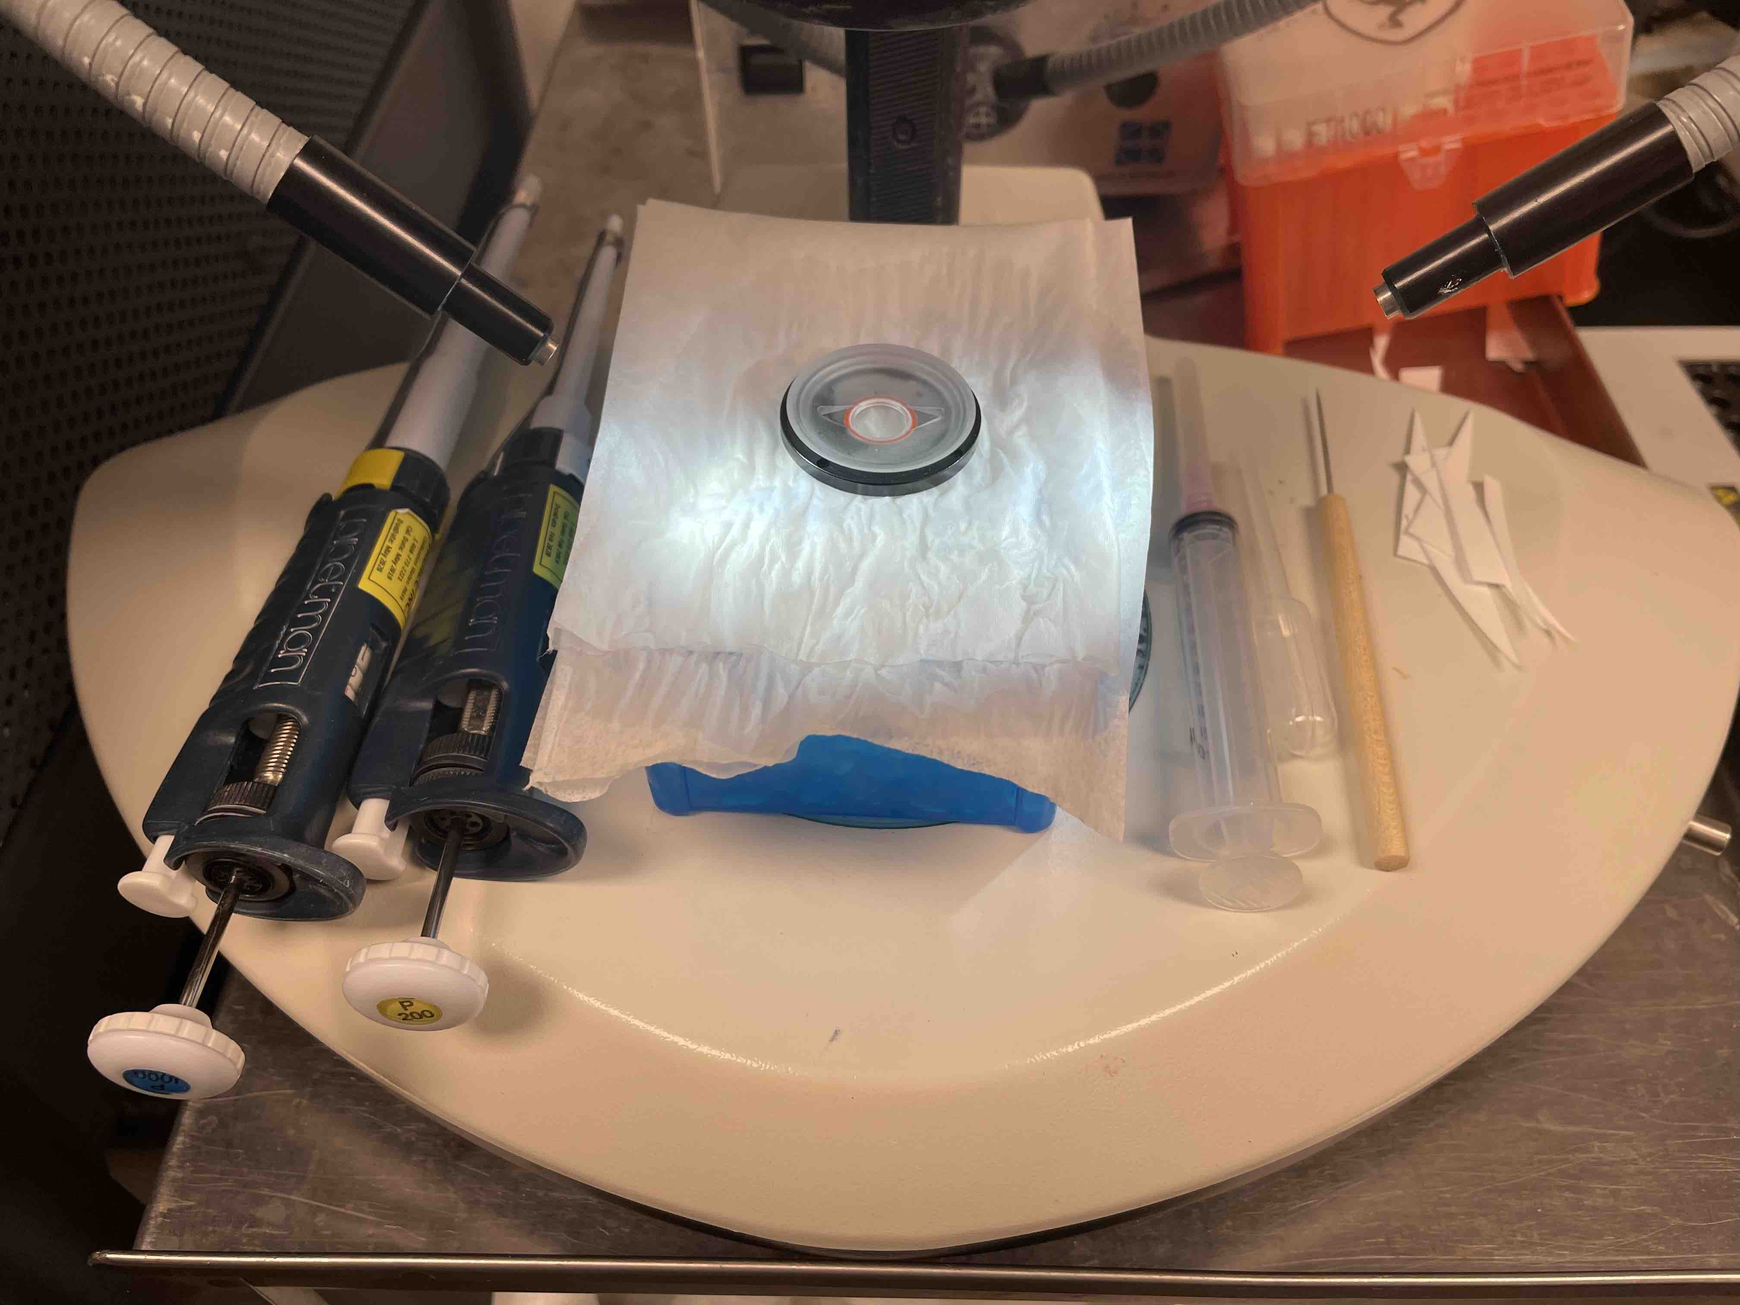
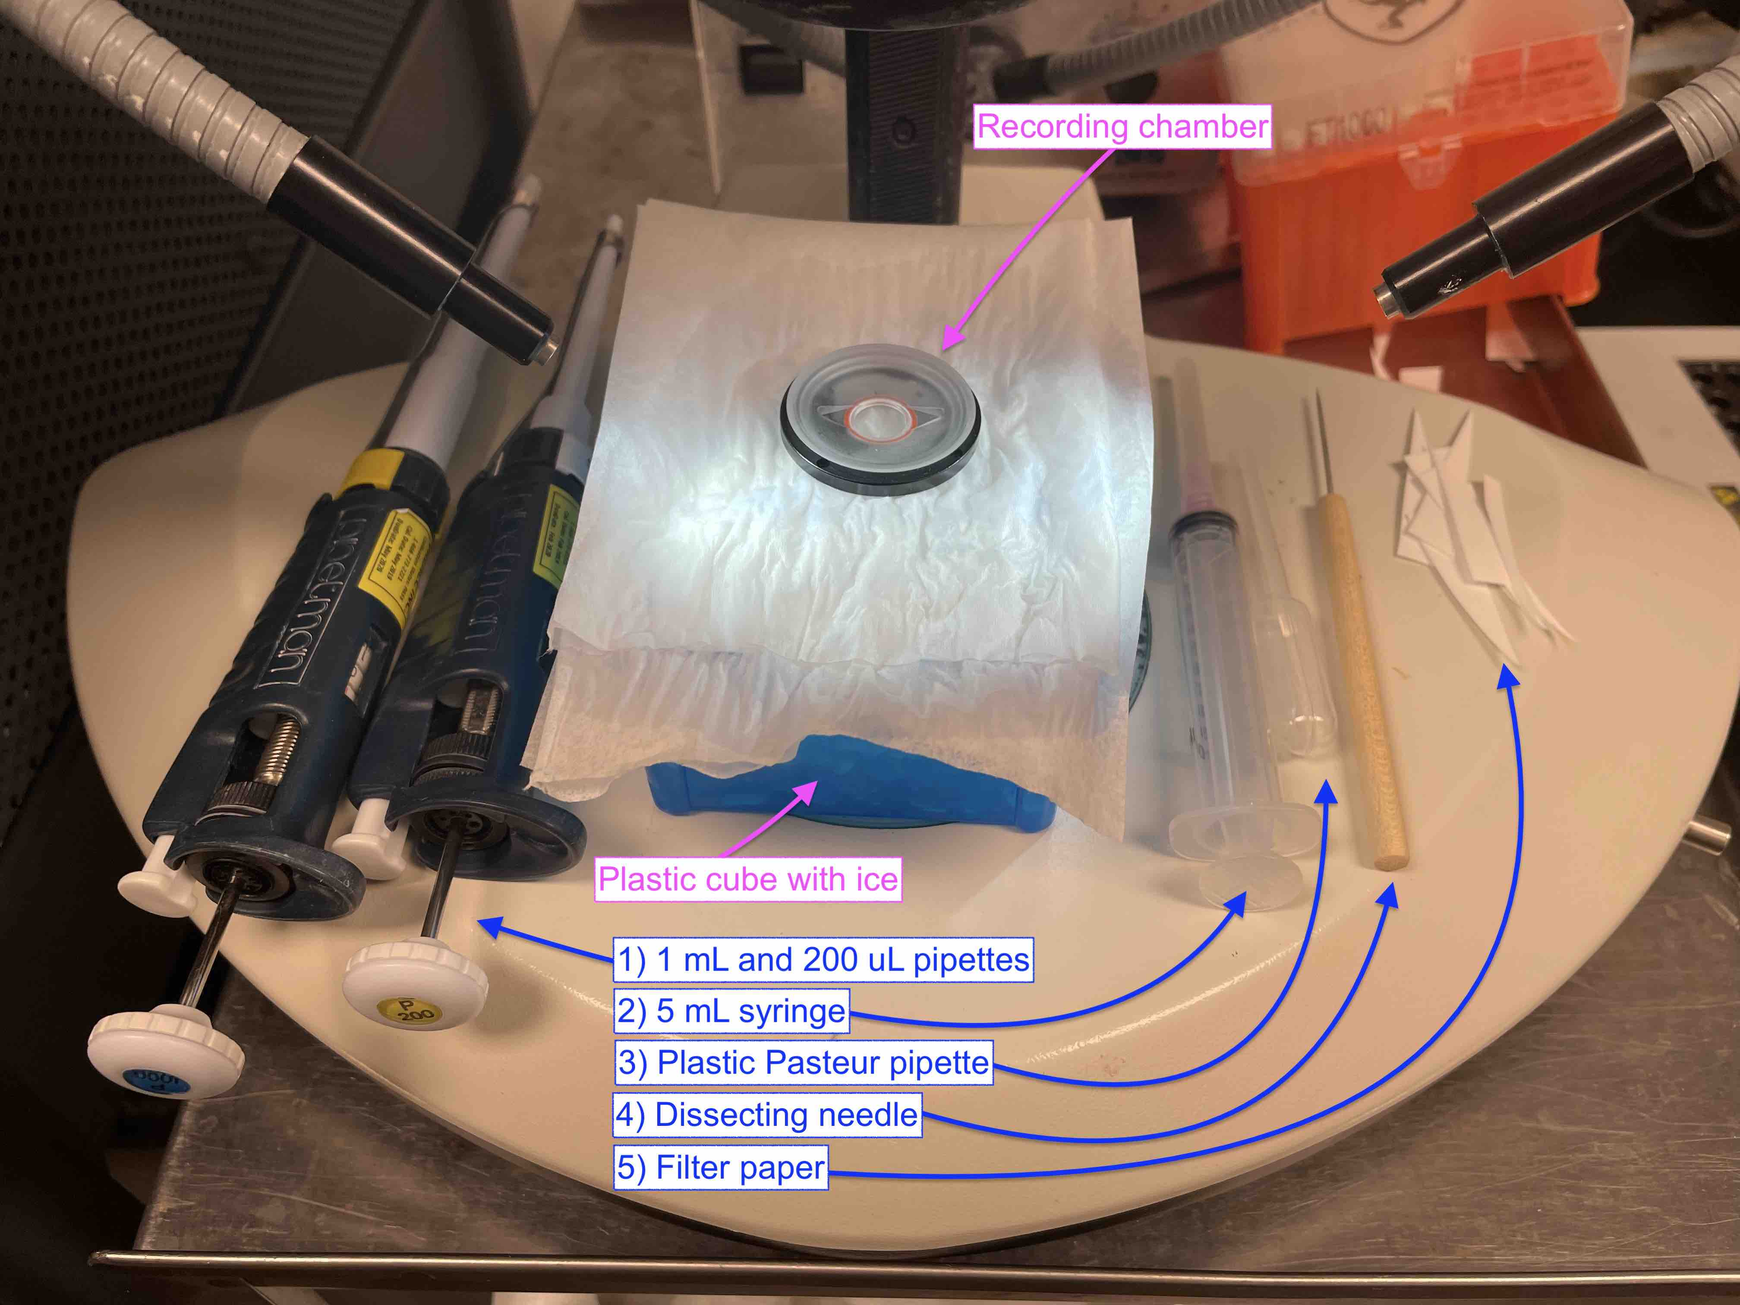
update sample preparation

diff --git a/organostation/tutorials/templates/day4/index.html b/organostation/tutorials/templates/day4/index.html
@@ -1,9 +1,8 @@
 <h1><strong>Sample preparation</strong></h1>
 
 <p>This guide is the most important part of the tutorials, and it will guide you through the preparation of the organoid
-	and the recording procedure. Neural tissue has special properties that make it very sensitive to changes in
+	for the recording procedure. Neural tissue has special properties that make it sensitive to changes in
 	mechano-chemical conditions. Thus, special care is required when handling the preparation.</p>
-
 
 <section id="toc">
 	<hr />
@@ -41,51 +40,40 @@
 	<h1>1. Tissue immobilization</h1>
 
 	<p>One of the most important elements in an electrical recording is mechanical stability. We will use 4% (wt/vol)
-		low-melt agarose (Biozym, Cat. No. 850080) in phosphate-buffered solution (PBS) to immobilize the organoid
-		within
-		the recording chamber. Also, artificial cerebrospinal fluid (ACSF) will be delivered at a rate of 2-3 mL/min
-		while
-		keeping both solution and chamber near physiological temperature&nbsp;(30-35 &deg;C ). When keeping mechanical
-		stability, the composition of the fluid, and the temperature of the tissue, we can guarantee recordings under
-		neurophysiological conditions.&nbsp;</p>
+		low-melt agarose (<a
+			href="https://www.biozym.com/media/pdf/58/26/76/85008X_Datenblatt-Biozym-Sieve-GeneticPure_vers-0-4.pdf"
+			target="_blank">Biozym, Cat. No. 850080</a>) in phosphate-buffered solution (PBS) to immobilize the organoid
+		within the recording chamber. Also, artificial cerebrospinal fluid (ACSF) will be delivered at a rate of 2-3
+		mL/min while keeping both solution and chamber near physiological temperature (30-35 &deg;C ). When keeping
+		mechanical stability, the composition of the fluid, and the temperature of the tissue, we can guarantee
+		recordings are performed under neurophysiological conditions.</p>
 
-	<h2>1.1 Sample preparation</h2>
+	<h2>1.1 Preparation table</h2>
 
-	<p>We recommend using the recording station close to the culture room to avoid mechanical stress on the organoids.
-		Before starting the procedure, have a bottle (~, e.g., 500 mL) of ACSF gassed with carbogen for at least 20
-		minutes
+	<p>We recommend having the recording station close to the culture room to avoid mechanical stress on the organoids.
+		Before starting the procedure, have a bottle (e.g., 500 mL) of ACSF gassed with carbogen for at least 20 minutes
 		to equilibrate the pH solution (~ 7.25-7.35) at room temperature.</p>
 
 	<p>Once taken from the incubator, cerebral organoids are to keep at near-physiological temperature (30-35 &deg;C )
-		in
-		ACSF for ten minutes (e.g., in a 35-mm petri dish). While keeping the organoids in ACSF, it is recommended to
-		melt
-		the 4% (wt/vol) low-melt agarose (Biozym, Cat. No. 850080) in phosphate-buffered solution (PBS) in a thermal
-		block
-		(or in thermal cycler). At the same time, we can fill a 10 x 10 mL plastic container with ice, and cover it with
-		a
-		paper blanket. We will operate the recording chamber on top of the blanket. In this way, the chamber is very
-		cold,
-		but not frozen. At both the left and right sides of the chamber, we will have preparation tools (like pipettes
-		of
-		different sizes, filter paper, etc. see below).</p>
+		in ACSF for ten minutes (e.g., in a 35-mm petri dish). While keeping the organoids in ACSF, it is recommended to
+		melt the 4% low-melt agarose (using a thermal block, or in a thermal cycler). At the same time, we can fill a 10
+		x 10 mL plastic container with ice, and cover it with a paper blanket. We will allocate the recording chamber on
+		top of the blanket. In this way, the chamber is very cold, but not frozen. On both sides of the chamber, we will
+		have preparation tools (like pipettes of different sizes, filter paper, etc. see below).</p>
 
-	<p>The preparation must be visible&nbsp;under a bench-top magnifier or low-power microscope, as depicted below.</p>
+	<p>The preparation table must be visible&nbsp;under a bench-top magnifier or low-power microscope, as depicted
+		below.</p>
 
-	<p>&nbsp;</p>
-
-	<table border="0" cellpadding="1" cellspacing="1" style="margin-left:auto; margin-right:auto; width:750px">
+	<table cellpadding="1" cellspacing="1">
 		<tbody>
 			<tr>
-				<td style="width:500px"><img alt="sample" src="{{ url_for('tutorials_bp.static', filename='img/sample.jpg')}}"
-						style="width:500px" /></td>
-				<td style="width:228px"><img alt="thermo" src="{{url_for('tutorials_bp.static', filename = 'img/thermo.jpg') }}"
-						style="height:188px; width:250px" /></td>
+				<td style="width:750px"><img alt="sample"
+						src="{{ url_for('tutorials_bp.static', filename='img/sample.jpg')}}" style="width:750px" /></td>
 			</tr>
 		</tbody>
 	</table>
 
-	<p>Here is a summary of the tools to have before the sample preparation:</p>
+	<p>Here is a summary of the tools to have on the preparation table:</p>
 
 	<ul>
 		<li>ACSF bubbled in Carbogen for 20 minutes at room temperature.</li>
@@ -95,10 +83,10 @@
 		<li>Preparation tools:
 			<ul>
 				<li>1) 1mL and 200 microL eppendorf pipettes</li>
-				<li>2)&nbsp;5 mL syringe</li>
+				<li>2) 5 mL syringe</li>
 				<li>3) Plastic Pasteur Pipette</li>
-				<li>4)&nbsp;Filter paper (e.g., Watmann) or Kim-wipe / absorbent swab</li>
 				<li>5) Dissecting needle</li>
+				<li>4) Filter paper (e.g., Watmann) or Kim-wipe / absorbent swab</li>
 			</ul>
 		</li>
 	</ul>
@@ -106,21 +94,16 @@
 	<h2>1.2 Embedding the organoid</h2>
 
 	<p>Now that we have the organoid on the dish, we will use the plastic Pasteur pipette (or an Eppendorf pipette tip)
-		and
-		cut it to have a ~ 5 mm diameter or larger. It allows us to get the organoid with some ACSF without touching the
-		tissue. We use it to move it to the recording chamber on the preparation table. Note that the organoid will
-		contain
-		a few microliters (maybe up to 1 mL) of ACSF in the recording chamber. We will eliminate those with a 1 mL
-		Eppendorf
-		pipette. After that, use the filter paper (or Kim-wipe / absorbent swab) carefully, to remove the excess liquid
-		around the border of the organoid. It is necessary that the border is almost dry to allow the agar to surround
-		the
-		tissue and fix it together with the chamber. After it, we will add 4% melted agarose in the surroundings of the
-		organoid, that in contact with the frozen chamber, will solidify immediately and fix the organoid to the
-		chamber.
-		This is when we add ~ 2 mL of ACSF at room temperature, to finally move the chamber to the organostation, and
-		start
-		the perfusion of warm (~ 35&nbsp;&deg;C) ACSF with the peristaltic pump.</p>
+		and cut it to obtain a ~ 5 mm diameter tip or larger. It allows us to get the organoid with some ACSF without
+		touching the tissue. We use it to move from the petri dish to the recording chamber on the preparation table.
+		Note that the organoid will contain a few microliters (maybe up to 1 mL) of ACSF in the recording chamber. We
+		will eliminate those with a 1 mL Eppendorf pipette. After that, use the filter paper (or Kim-wipe / absorbent
+		swab) carefully, to remove the excess liquid around the border of the organoid. It is essential to dry&nbsp;the
+		border to allow the agar to surround the tissue and fix it together with the chamber. After it, we will add ~200
+		microliters of 4% melted agarose in the surroundings of the organoid, that in contact with the frozen chamber,
+		will solidify immediately. This is when we add ~ 2 mL of ACSF at room temperature with the plastic Pasteur
+		pipette. Once immersed in ACSF, the organoid on the recording chamber must be transported to the organostation,
+		and start the perfusion of warm (~ 35&nbsp;&deg;C) ACSF with the peristaltic pump.</p>
 
 	<p>Here is the whole process summarized.</p>
 
@@ -128,104 +111,117 @@
 		<li>Move the organoid for the 35 mm petri dish to the recording chamber.</li>
 		<li>Remove the excess ACSF with an Eppendorf pipette, and dry out the borders of the organoid with filter paper.
 		</li>
-		<li>Add immediately 194 microliters of melted 4% agar around the borders of the organoid.</li>
-		<li>Add ACSF to cover the whole volume of the organoid (about 2 mL).</li>
+		<li>Add immediately ~ 200 uL of melted 4% agar around the borders of the organoid.</li>
+		<li>Cover with&nbsp;ACSF the whole volume of the organoid (about 2 mL).</li>
 		<li>Move the chamber carefully&nbsp;to the organostation&nbsp;and start the perfusion of warm (~ 35&nbsp;&deg;C)
 			ACSF</li>
 	</ol>
 
-	<p>The most critical step is drying out the border of the organoids. Neural tissue will immediately die if not in
-		the
-		presence of ACSF. Therefore, the organoid must be kept in ACSF as long as possible.</p>
+	<p>The most critical step is drying out the border of the organoids. Neural tissue will immediately die and suffer
+		from anoxia if not in the presence of ACSF. Therefore, the organoid must be kept in ACSF as long as possible.
+	</p>
 </section>
 
 <section id="handling">
 	<h1>2. Electrode penetration</h1>
 
-	<p>Once the chamber is in the organostation, look carefully if the organoid remains embedded in agar. If yes, it is
-		time
-		to take the probes and insert them into the adaptor for the micromanipulators. For that, you need to move the
-		manipulators at a fast speed outside of the recording chamber. Once there, inset the probes on the manipulators,
-		and
-		do not forget to allocate the reference electrode inside the bath (see figure).&nbsp;</p>
+	<p>Once the chamber is in the organostation, look carefully if the organoid remains embedded in the agar block. If
+		yes, it is time to take the probes and insert them into the adaptor for the micromanipulators. For that, you
+		need to move the manipulators at a fast speed outside of the recording chamber. Once there, inset the probes on
+		the manipulators, and do not forget to allocate the reference electrode inside the bath (see figure).</p>
 
-	<p><img alt="grounding" src="{{ url_for('tutorials_bp.static', filename = 'img/grounding.jpg') }}"
-			style="width: 350px; height: 264px;" /></p>
-
-	<p>After setting the grounding electrode, move the manipulators fast until you see it under the microscope. At the
-		same
-		time, monitor the noise of the recordings in your computer. Noise is very large if the electrodes are outside
-		ACSF.
-		Once the electrodes are on top of the organoid, select a slower speed and move downwards. At the moment you
-		touch
-		the surface of the organoid, you will see that the noise of the electrodes increases slightly. This is the
-		moment
-		when you set the counter to zero in the manipulator pad, and move the probe using the wheel. Insert now the
-		probes
-		with the electrodes around 200- 300 micrometers following the display in the manipulator pad.</p>
-
-	<h2>2.1 Documenting recordings</h2>
-
-	<p>Check that the binary file is saved and enter in your dataset all the details for your recording, for example</p>
-
-	<p><img alt="stable" src="{{ url_for('tutorials_bp.static', filename = 'img/stable.jpg') }}" style="width:750px" /></p>
-
-</section>
-
-<section id="cleaning">
-	<h1>3. Cleaning protocol</h1>
-
-	<p>Ideally,&nbsp;you would like to start and end cleaning the probe by immersing it in a 1% (w/v) <a
-			href="https://www.coleparmer.com/i/alconox-tergazyme-1304-1-enzyme-active-powered-detergent-4-lb-box/1777705"
-			rel="noopener noreferrer" target="_blank">tergazyme</a> in dH2O solution at ~50 degrees for 20 minutes.
-		After
-		that, you can remove any debris with a small brush under visual inspection (e.g., bench-top magnifier).&nbsp;
-	</p>
-
-	<ol>
-		<li>Immersion in 1% (w/v) tergazyme at ~ 50&nbsp;&deg;C for approximately 20 minutes.</li>
-		<li>Rinse abundantly with&nbsp;bi-distilled water at ~ 50&nbsp;&deg;C &nbsp;</li>
-		<li>Rinse with isopropanol at room temperature&nbsp;</li>
-	</ol>
-
-	<h2>3.1 Probe cleaning</h2>
-
-	<p>Once the acquisition is made, and the binary file is stored, you must operate carefully to remove the probes from
-		the
-		manipulator. During this time, the tissue can remain at physiological temperature and with the proper
-		recirculation
-		in the chamber. It helps if you require to perform a new recording on a different day and recover after the
-		brief
-		immersion of the probes. To remove the probes, move the manipulator to the furthest possible&nbsp;position, and
-		once
-		there, far away from the tissue, remove the PCB that contains the probe.</p>
-
-	<p>Always move the&nbsp;probe upwards, avoiding any contact. Securely mount your probe into a moveable stand to soak
-		the
-		probe shank(s) in a heated magnetic stirrer bath (cleaning station, see figure on the left). Insert the probe in
-		1%
-		(w/v) <a
-			href="https://www.coleparmer.com/i/alconox-tergazyme-1304-1-enzyme-active-powered-detergent-4-lb-box/1777705"
-			rel="noopener noreferrer" target="_blank">tergazyme</a> in dH2O solution at ~50 degrees for approximately 20
-		minutes. Alternatively,&nbsp;you can use Trypsin 10X (Cat. No, 59427C from Sigma) diluted 1:10 in distilled
-		water
-		and soak the probe shank for a few hours at 35 degrees Celsius.</p>
-
-	<p>Finally, you can store the probe within a Falcon Tube containing 30 mL of dH2O.</p>
-
-	<table border="0" cellpadding="1" cellspacing="1" style="margin-left:auto; margin-right:auto; width:750px">
+	<table cellpadding="1" cellspacing="1">
 		<tbody>
 			<tr>
-				<td style="width:500px"><img alt="probe_cleaner"
-						src="{{ url_for('tutorials_bp.static', filename='img/probe_cleaner.jpg')}}"
-						style="height:253px; width:250px" /></td>
-				<td style="width:500px"><img alt=""
-						src="{{ url_for('tutorials_bp.static', filename = 'img/cleaning_station.jpg')}}"
-						style="height:436px; width:250px" /></td>
+				<td style="width:750px"><img alt="grounding"
+						src="{{ url_for('tutorials_bp.static', filename='img/grounding.jpg')}}" style="width:750px" />
+				</td>
 			</tr>
 		</tbody>
 	</table>
 
-	<h2>3.2&nbsp;Probe storage</h2>
+	<p>After setting the grounding electrode, move the manipulators fast until you see them under the microscope. At the
+		same time, monitor the noise of the recordings on your computer. Noise is very large if the electrodes are
+		outside ACSF. Once the electrodes are on top of the organoid, select a slower speed and move downwards. The
+		moment you touch the surface of the organoid, you will see that the noise of the electrodes increases slightly.
+		This is when you set the counter to zero in the manipulator pad, and move the probe using the wheel very slowly
+		(~ 10 um per cycle). Monitor that you insert the probes&nbsp; ~ 200 - 300 micrometers deep in the organoid,
+		because that&#39;s where active neurons migrate during the development of organoids. Deeper insertions may
+		contain&nbsp;stem cells and neural progenitors, or reach necrotic areas that do not have active electrical
+		properties.</p>
+
+	<h2>2.1 Documenting recordings</h2>
+
+	<p>Once the desired location is reached, wait for ~10-25 minutes to let the tissue recover. You can monitor the
+		oscilloscope in the presence of extracellular spikes appearing spontaneously in closed electrode locations. Note
+		that small movements may activate close-by neurons, and electrical artifacts (e.g., switches, steppers, etc.)
+		may contribute to electrical signals sampled by electrodes but are not from neurons.</p>
+
+	<p>One you can reproduce the presence of extracellular spiking activity around a group of electrodes, you can start
+		the recording and monitor the location - we recommend recording at least 10 minutes-. The binary files&nbsp;are
+		updating in your computer, and we advice to start entering all recordings details in a small dataset, like the
+		one in this example:</p>
+
+	<p><img alt="stable" src="{{ url_for('tutorials_bp.static', filename = 'img/stable.jpg') }}" style="width:750px" />
+	</p>
+</section>
+
+<section id="cleaning">
+	<p>Once the acquisition is made, and the binary file is stored, you must operate carefully to remove the probes from
+		the manipulator. During this time, the tissue can remain at physiological temperature and with the proper
+		recirculation in the chamber. It helps if you require to perform a new recording on a different day and recover
+		after the brief immersion of the probes. To remove the probes, move the manipulator to the furthest
+		possible&nbsp;position, and once there, far away from the tissue, remove the PCB that contains the probe.</p>
+
+	<h1>3. Cleaning protocol</h1>
+
+	<p>Ideally,&nbsp;you would like to start and end cleaning the experiment with a cleaning procedure to eliminate
+		contamination from your probes. You can clean the probes by immersing them in a 1% (w/v) <a
+			href="https://www.coleparmer.com/i/alconox-tergazyme-1304-1-enzyme-active-powered-detergent-4-lb-box/1777705"
+			rel="noopener noreferrer" target="_blank">tergazyme</a> in dH2O solution at ~50 degrees for 20 minutes.
+		After that, you can remove debris with a small brush under visual inspection (e.g., bench-top magnifier) that
+		contains abundant drops of bi-distilled water.&nbsp;</p>
+
+	<ol>
+		<li>Immersion in 1% (w/v) tergazyme at ~ 50&nbsp;&deg;C for approximately 20 minutes.</li>
+		<li>Rinse abundantly with&nbsp;bi-distilled water at ~ 50&nbsp;&deg;C&nbsp; (brush if necessary)</li>
+	</ol>
+
+	<p>&nbsp;</p>
+
+	<h2>3.1 Probe cleaning and storage</h2>
+
+	<p>To clean the probe before storage, you will need a cleaning station (see the image below) that contains
+		a&nbsp;moveable stand to soak the probe shank(s) in a heated magnetic stirrer bath. Insert the probes first in
+		1%&nbsp;<a
+			href="https://www.coleparmer.com/i/alconox-tergazyme-1304-1-enzyme-active-powered-detergent-4-lb-box/1777705"
+			rel="noopener noreferrer" target="_blank">tergazyme</a> at ~50 degrees for approximately 20 minutes (*), and
+		clean them as described in the cleaning protocol. This time, we add a last step that includes treatment in
+		iso-propanol before storage in&nbsp;a Falcon Tube containing 30 mL of distilled H2O.</p>
+
+	<ol>
+		<li>Immersion in 1% (w/v) tergazyme at ~ 50&nbsp;&deg;C for approximately 20 minutes.</li>
+		<li>Rinse abundantly with&nbsp;bi-distilled water at ~ 50&nbsp;&deg;C&nbsp; (brush if necessary).</li>
+		<li>Brush visually with iso-propanol at room temperature.</li>
+		<li>Storage of probes in Falcon Tube in distilled water.&nbsp;</li>
+	</ol>
+
+	<table border="0" cellpadding="1" cellspacing="1">
+		<tbody>
+			<tr>
+				<td style="width:500px"><img alt="probe_cleaner"
+						src="{{ url_for('tutorials_bp.static', filename='img/probe_cleaner.jpg')}}"
+						style="width:500px" /></td>
+				<td style="width:250px"><img alt=""
+						src="{{ url_for('tutorials_bp.static', filename = 'img/cleaning_station.jpg')}}"
+						style="width:250px" /></td>
+			</tr>
+		</tbody>
+	</table>
+
+	<p>&nbsp;</p>
+
+	<p>*&nbsp;Alternatively,&nbsp;you can use Trypsin 10X (Cat. No, 59427C from Sigma) diluted 1:10 in distilled water
+		and soak the probe shank for a few hours at 35 degrees Celsius.</p>
 
 </section>

diff --git a/organostation/tutorials/static/src/less/tutorials.less b/organostation/tutorials/static/src/less/tutorials.less
@@ -1,11 +1,24 @@
 /**************************************************************************
-    Custom styling for tutorial contents
+    Custom styling for tutorial contents. The font for tutorials is Lato
 *************************************************************************/
 @black: #1f1f1f;
 @purple: #670067;
 @myligthgray: #eee;
+@webgray: #4D5154;
 @dark-blue: #00468b;
 @baby-blue: #EAF0F6;
+
+@font-face {
+    font-family: Lato;
+    font-style: normal;
+    font-weight: 400;
+    src: url("https://mdn.github.io/web-fonts/LatoReg.ttf");
+}
+
+body {
+    font-family: Lato, sans-serif;
+    color: @webgray;
+}
 
 #btn-back-to-toc {
     position: fixed;
@@ -18,6 +31,7 @@ h1 {
     padding-top: 30px;
     padding-bottom: 30px;
     margin-left: 5px;
+    color: @dark-blue !important;
 
 }
 
@@ -25,6 +39,7 @@ h2 {
     padding-top: 10px;
     padding-bottom: 10px;
     margin-left: 10px;
+    color: @black !important;
 }
 
 .p {
@@ -32,4 +47,15 @@ h2 {
     margin-right: 10px;
     padding-top: 30px;
     padding-bottom: 30px;
+    color: @webgray !important;
+}
+
+table {
+    margin-left: auto;
+    margin-right: auto;
+    margin-top: 20px;
+    margin-bottom: 20px;
+    width: 750px;
+    border: 3px solid;
+
 }
